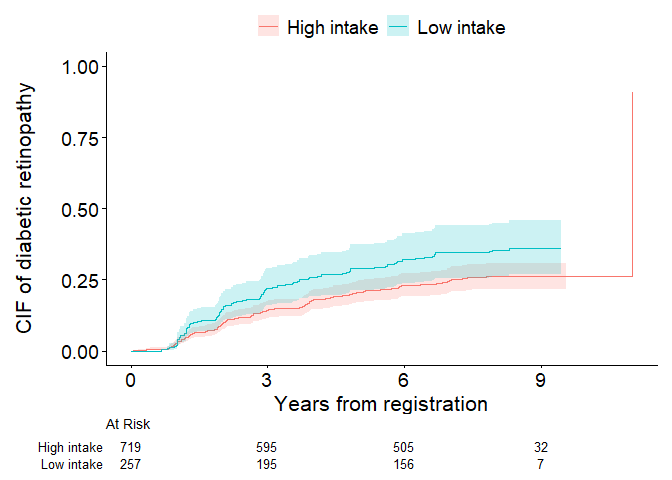
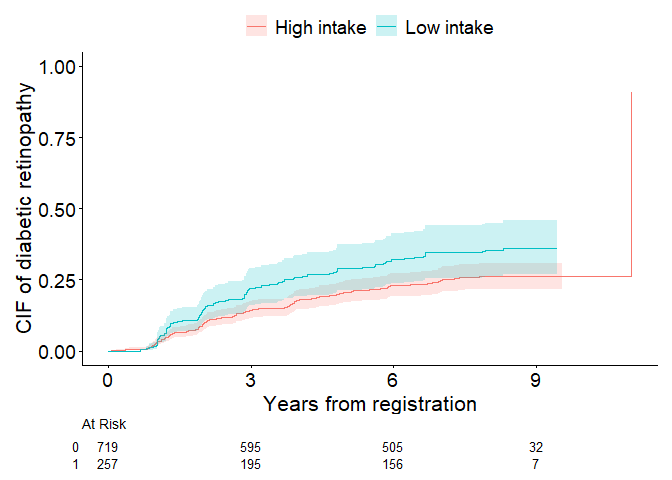
bugs in stratified se

diff --git a/README.md b/README.md
@@ -132,7 +132,7 @@ install.packages("boot")
 install.packages("ggplot2")
 install.packages("ggsurvfit")
 install.packages("modelsummary")
-devtools::install_github("gestimation/cif")
+devtools::install_github("gestimation/cifmodeling")
 ```
 
 If you only need the core functionality of `cif`, installing `Rcpp` and
@@ -266,9 +266,9 @@ label.strata=c('High intake','Low intake'))
     #>     label.x = "Years from registration", label.y = "CIF of diabetic retinopathy", 
     #>     label.strata = c("High intake", "Low intake"))
     #> 
-    #>             records   n events median LCL UCL
-    #> High intake     720 719    189     11  NA  NA
-    #> Low intake      258 257     92     NA  NA  NA
+    #>   records   n events median LCL UCL
+    #> 0     720 719    189     11  NA  NA
+    #> 1     258 257     92     NA  NA  NA
 
 In the next figure, censoring marks are added along each curve
 (addCensorMark = TRUE) to indicate individuals who were censored before
@@ -292,9 +292,9 @@ label.strata=c('High intake','Low intake'))
     #>     label.x = "Years from registration", label.y = "CIF of diabetic retinopathy", 
     #>     label.strata = c("High intake", "Low intake"))
     #> 
-    #>             records   n events median LCL UCL
-    #> High intake     720 719    189     11  NA  NA
-    #> Low intake      258 257     92     NA  NA  NA
+    #>   records   n events median LCL UCL
+    #> 0     720 719    189     11  NA  NA
+    #> 1     258 257     92     NA  NA  NA
 
 In the final figure, competing risk marks are added
 (addCompetingRiskMark = TRUE) to indicate individuals who experienced
@@ -318,9 +318,9 @@ label.strata=c('High intake','Low intake'))
     #>     label.x = "Years from registration", label.y = "CIF of diabetic retinopathy", 
     #>     label.strata = c("High intake", "Low intake"))
     #> 
-    #>             records   n events median LCL UCL
-    #> High intake     720 719    189     11  NA  NA
-    #> Low intake      258 257     92     NA  NA  NA
+    #>   records   n events median LCL UCL
+    #> 0     720 719    189     11  NA  NA
+    #> 1     258 257     92     NA  NA  NA
 
 An estimate of the unadjusted risk ratio for the risk of diabetic
 retinopathy at 8 years is obtained using `polyreg()` with
@@ -476,9 +476,9 @@ label.x='Years from registration', label.strata=c('High intake','Low intake'))
     #>     label.y = "Survival probability", label.strata = c("High intake", 
     #>         "Low intake"))
     #> 
-    #>               n events median LCL UCL
-    #> High intake 720    248     11  NA  NA
-    #> Low intake  258    114     NA 8.3  NA
+    #>        n events median LCL UCL
+    #> [1,] 720    248     11  NA  NA
+    #> [2,] 258    114     NA 8.3  NA
 
 The code below specifies the Richardson model on the risk of diabetic
 retinopathy or macrovascular complications at 8 years
